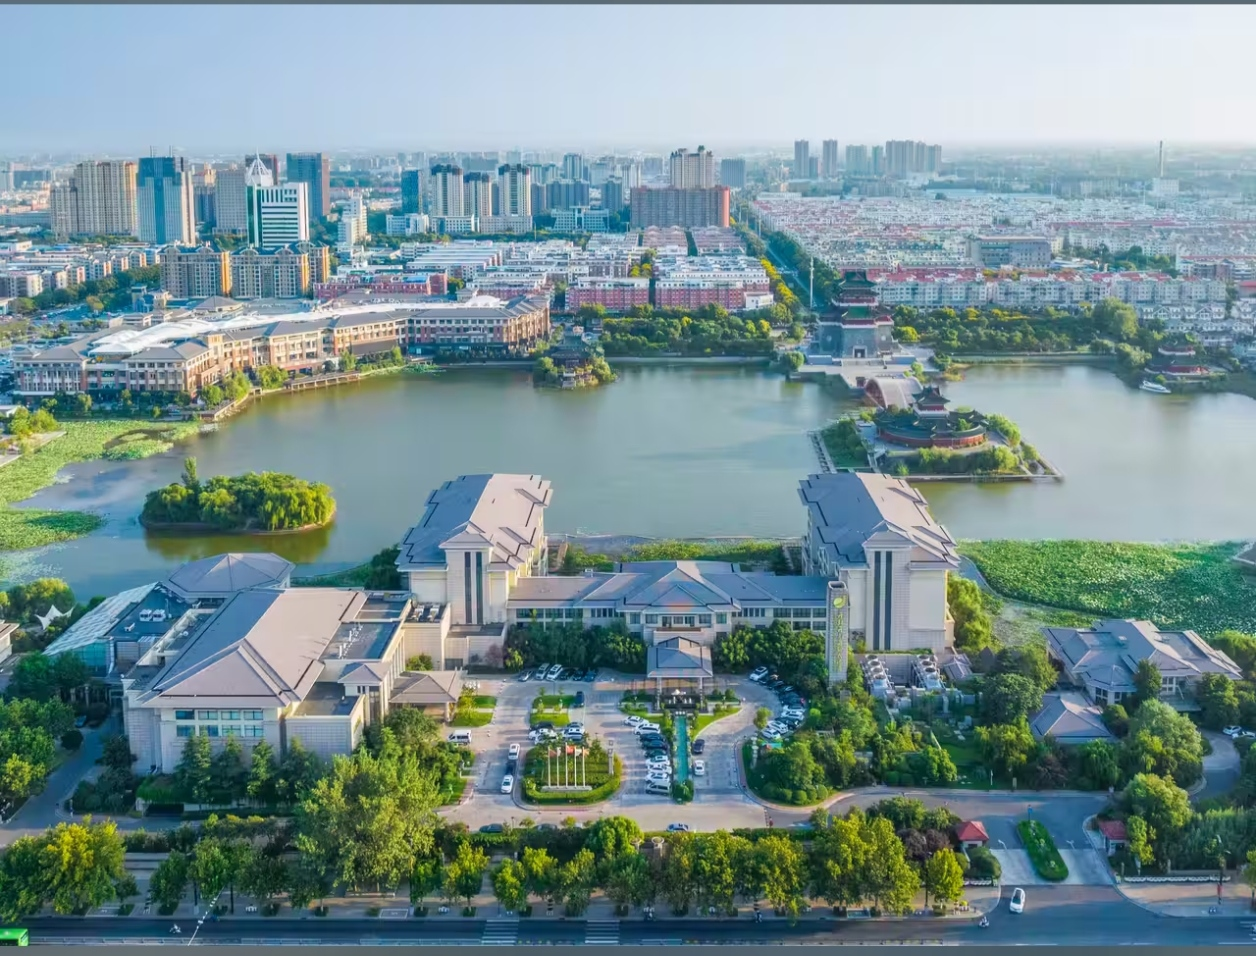
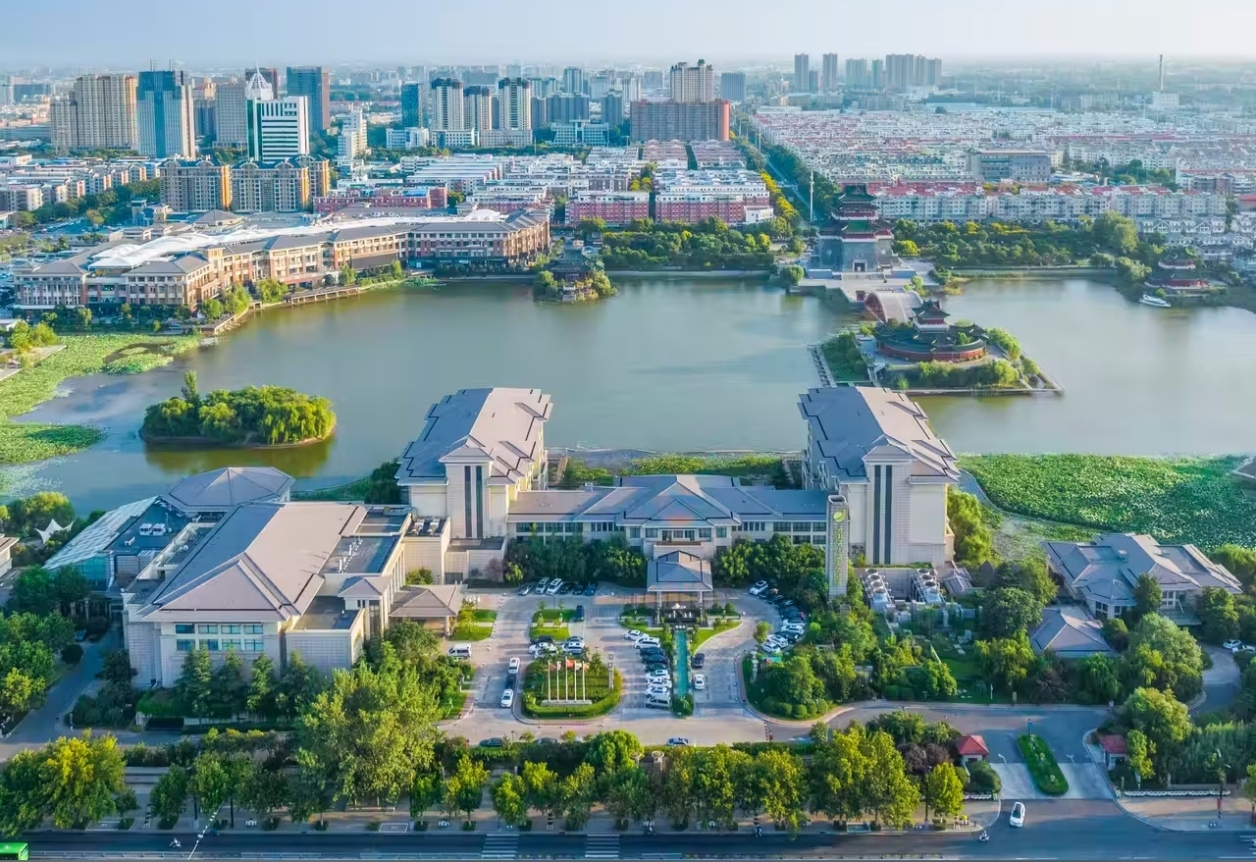
Replace hotel photo with updated crop

diff --git a/information.html b/information.html
@@ -99,7 +99,7 @@
         <h4 style="color:#4bbdd0;">交通情况</h4>
         <ul style="text-align:left;padding-left:20px;font-size:16px;font-weight:300;line-height:1.8;">
           <li><span style="color:#4bbdd0;font-weight:500;">会议酒店：</span>河南开封开元名都大酒店
-            <p style="margin:20px 0;"><img src="./information_files/kaifeng-hotel-photo.jpg" width="1256" height="956" alt="河南开封开元名都大酒店及金明池全景" loading="lazy" style="display:block;width:100%;max-width:100%;height:auto;"></p>
+            <p style="margin:20px 0;"><img src="./information_files/kaifeng-hotel-photo.jpg?v=20260928-2" width="1256" height="862" alt="河南开封开元名都大酒店及金明池全景" loading="lazy" style="display:block;width:100%;max-width:100%;height:auto;"></p>
           </li>
           <li><span style="color:#4bbdd0;font-weight:500;">酒店地址：</span>河南省开封市龙亭区郑开大道东1号</li>
           <li><span style="color:#4bbdd0;font-weight:500;">具体会场：</span>1楼 名都厅。</li>
